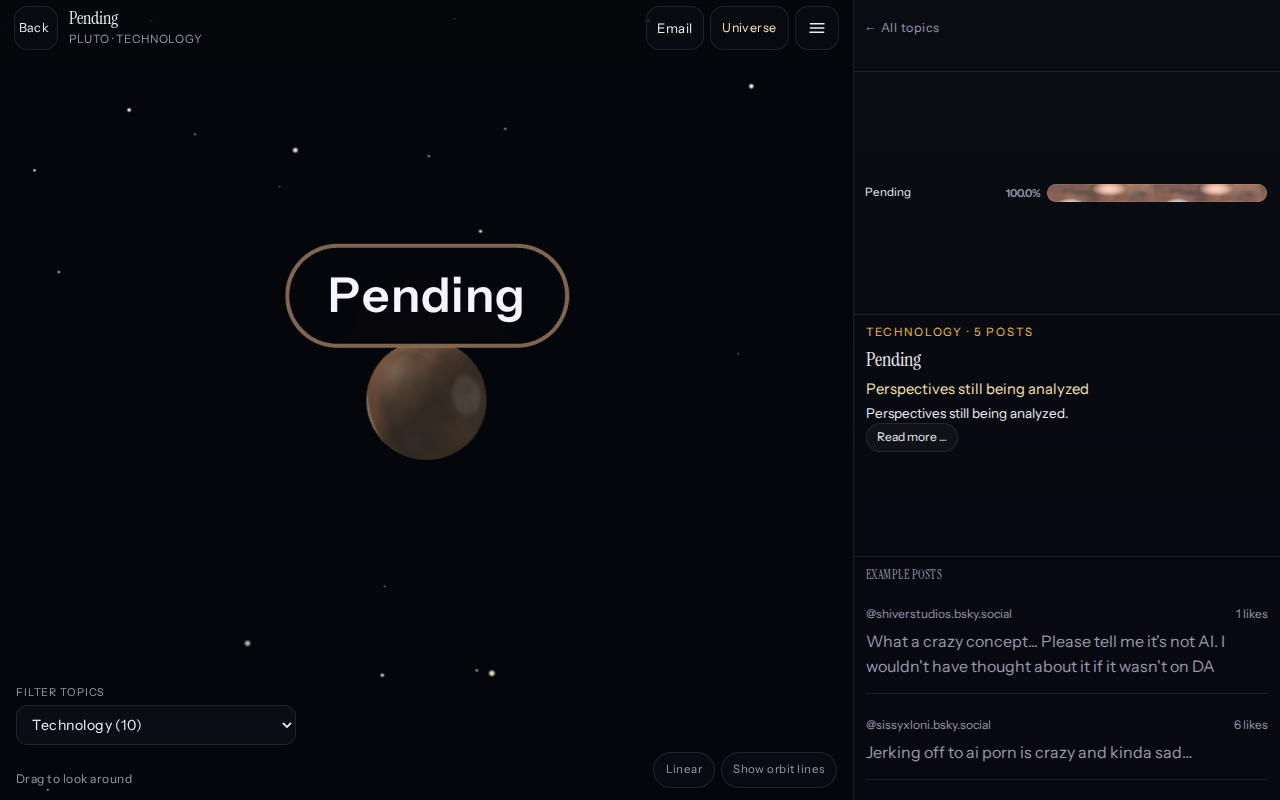
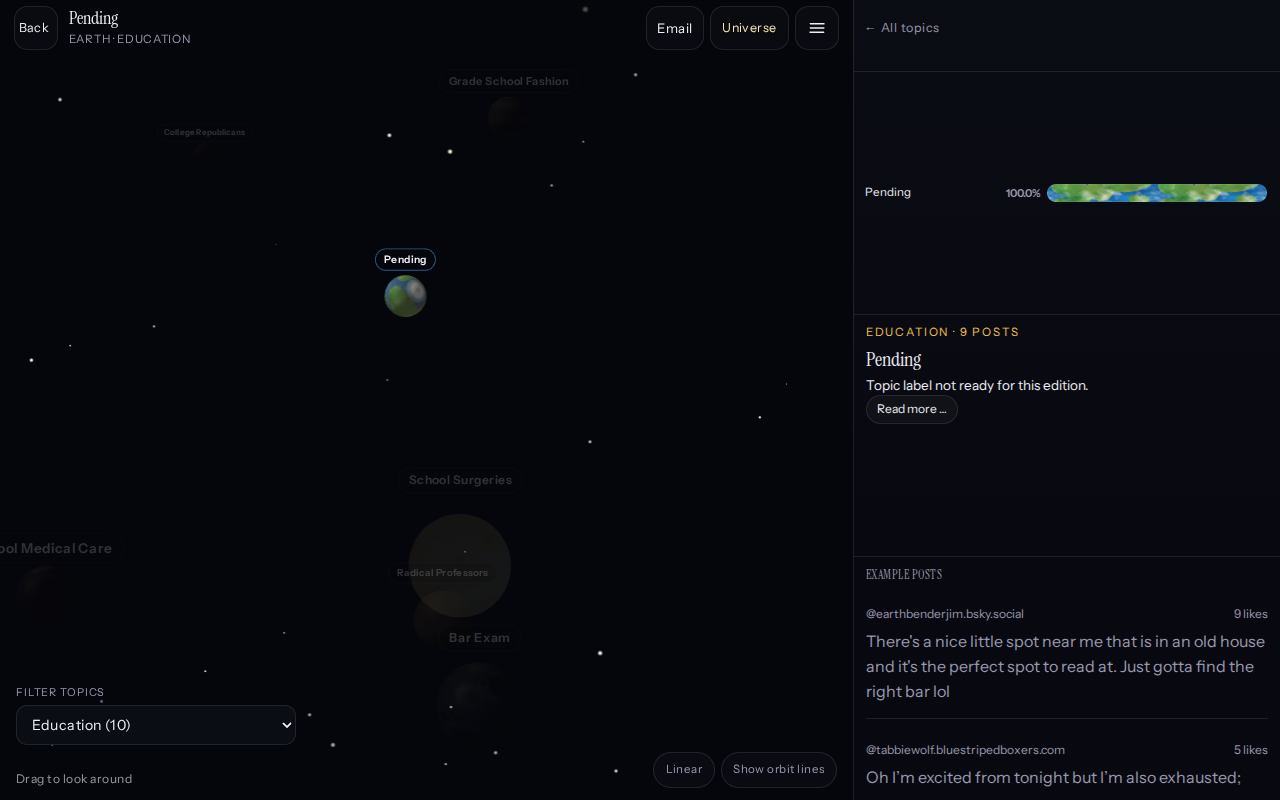
Label-held planets use not-ready copy, not stance analyzed
Michael (2026-10-20): held label-guard planets must not claim perspectives
are still being analyzed. Use stance_check label held, PENDING_SUMMARY
Topic label not ready for this edition, and hide the gold stance line on
the reading screen when only the summary carries that message.

Recapture PR 265 pending screenshots from the Oct 19 replay.

diff --git a/src/lib/present.js b/src/lib/present.js
@@ -1,7 +1,9 @@
 import {
+  LABEL_NOT_READY,
   PERSPECTIVES_PENDING,
   STANCE_CHECK_FAILED,
   STANCE_CHECK_INCOHERENT,
+  STANCE_CHECK_LABEL_HELD,
   STANCE_CHECK_UNSHARED,
 } from './copy.js'
 
@@ -281,13 +283,16 @@ function presentDigest(topics, previous) {
         : faces
             .map((face) => `${face.title} says ${clean(face.summary).replace(/\.$/, '')}.`)
             .join(' ')
+      const labelHeld = topic.stance_check === STANCE_CHECK_LABEL_HELD
       const pending =
         topic.stance_check === STANCE_CHECK_FAILED ||
         topic.stance_check === STANCE_CHECK_INCOHERENT ||
         topic.stance_check === STANCE_CHECK_UNSHARED
-      const opposingNote = pending
-        ? PERSPECTIVES_PENDING
-        : oneView
+      const opposingNote = labelHeld
+        ? LABEL_NOT_READY
+        : pending
+          ? PERSPECTIVES_PENDING
+          : oneView
           ? topic.opposing_note || 'No clear opposing view found in this sample'
           : null
       return {
@@ -296,7 +301,7 @@ function presentDigest(topics, previous) {
         percent: topic.total_volume_percent,
         arguments: argumentsList.slice(0, 6),
         oneView,
-        stancePending: pending,
+        stancePending: pending || labelHeld,
         opposingNote,
         disagreement,
       }

diff --git a/src/lib/copy.js b/src/lib/copy.js
@@ -2,7 +2,13 @@ export const SINGLE_VIEW_NOTE = 'No clear opposing view found in this sample'
 export const STANCE_CHECK_FAILED = 'stance check failed'
 export const STANCE_CHECK_INCOHERENT = 'second side not coherent'
 export const STANCE_CHECK_UNSHARED = 'no shared claim on any face'
+export const STANCE_CHECK_LABEL_HELD = 'label held'
 export const PERSPECTIVES_PENDING = 'Perspectives still being analyzed'
+export const LABEL_NOT_READY = 'Topic label not ready for this edition.'
+
+function labelHeld(topic) {
+  return Boolean(topic && topic.stance_check === STANCE_CHECK_LABEL_HELD)
+}
 
 function stancePending(topic) {
   return Boolean(
@@ -14,12 +20,14 @@ function stancePending(topic) {
 }
 
 export function oneViewNote(topic) {
+  if (labelHeld(topic)) return ''
   if (stancePending(topic)) return PERSPECTIVES_PENDING
   if (topic && topic.opposing_note) return topic.opposing_note
   return SINGLE_VIEW_NOTE
 }
 
 export function showStanceFailure(topic) {
+  if (labelHeld(topic)) return false
   return stancePending(topic)
 }
 

diff --git a/src/components/ReadingScreen.jsx b/src/components/ReadingScreen.jsx
@@ -267,11 +267,12 @@ export default function ReadingScreen({
               {postCount ? ` · ${formatNumber(postCount)} posts` : ''}
             </p>
             <h1>{title}</h1>
-            {topic && (topic.perspectives.length === 1 || showStanceFailure(topic)) && (
-              <p className="reading-opposing">
-                {oneViewNote(topic)}
-              </p>
-            )}
+            {(() => {
+              const opposing = topic ? oneViewNote(topic) : ''
+              return topic && (topic.perspectives.length === 1 || showStanceFailure(topic)) && opposing ? (
+                <p className="reading-opposing">{opposing}</p>
+              ) : null
+            })()}
             {brief && <p className="reading-brief">{brief}</p>}
             {topic && perspective && <TopTerms terms={faceTerms} />}
             <div className="reading-actions">

diff --git a/scripts/replay_oct19_label_guard.py b/scripts/replay_oct19_label_guard.py
@@ -1,0 +1,71 @@
+#!/usr/bin/env python3
+"""Apply label guard offline to the Oct 19 edition for UI replay (PR #265)."""
+
+from __future__ import annotations
+
+import copy
+import json
+import sys
+from pathlib import Path
+
+ROOT = Path(__file__).resolve().parents[1]
+if str(ROOT) not in sys.path:
+    sys.path.insert(0, str(ROOT))
+
+from pipeline.assemble import assemble_payload
+from pipeline.label_guard import guard_published_labels
+
+DEFAULT_SRC = Path("/home/ubuntu/.cursor/projects/workspace/uploads/data_2026-10-19_79cf.json")
+OUT = ROOT / "public" / "data.json"
+
+
+def _hydrate_posts(topic: dict, counter: list[int]) -> list[dict]:
+    posts: list[dict] = []
+    uris: list[str] = []
+    for face in topic.get("perspectives") or []:
+        for rep in face.get("representative_posts") or []:
+            text = str(rep.get("text") or rep.get("clean_text") or "").strip()
+            if not text:
+                continue
+            uri = f"at://replay/oct19/{counter[0]}"
+            counter[0] += 1
+            post = {
+                "uri": uri,
+                "text": text,
+                "clean_text": text,
+                "likes": int(rep.get("likes") or 0),
+            }
+            posts.append(post)
+            uris.append(uri)
+    topic["_member_uris"] = uris
+    for face in topic.get("perspectives") or []:
+        face["_face_member_uris"] = uris
+    return posts
+
+
+def main(src: Path = DEFAULT_SRC) -> None:
+    payload = json.loads(src.read_text(encoding="utf-8"))
+    counter = [0]
+    all_posts: list[dict] = []
+    sections: dict[str, list[dict]] = {}
+    for section, planets in (payload.get("sections") or {}).items():
+        topics = copy.deepcopy(planets)
+        for topic in topics:
+            all_posts.extend(_hydrate_posts(topic, counter))
+        for line in guard_published_labels(topics, all_posts):
+            print(line)
+        sections[section] = topics
+    out = assemble_payload(
+        payload.get("topics") or [],
+        mode=str(payload.get("mode") or "live"),
+        source=str(payload.get("source") or "bluesky"),
+        total_posts=int(payload.get("total_posts") or 0),
+        last_updated=payload.get("last_updated"),
+        sections=sections,
+    )
+    OUT.write_text(json.dumps(out, indent=2), encoding="utf-8")
+    print(f"Wrote {OUT}")
+
+
+if __name__ == "__main__":
+    main(Path(sys.argv[1]) if len(sys.argv) > 1 else DEFAULT_SRC)

diff --git a/pipeline/label_guard.py b/pipeline/label_guard.py
@@ -20,12 +20,11 @@ from pipeline.label import (
     topic_name_is_weak,
     unique_label,
 )
-from pipeline.schema import STANCE_CHECK_UNSHARED, TOP_TERMS_LIMIT
+from pipeline.schema import STANCE_CHECK_LABEL_HELD, TOP_TERMS_LIMIT
 from pipeline.spam_guard import post_body
 
-# Same line the reading screen shows for stance_check.
 PENDING_TITLE = "Pending"
-PENDING_SUMMARY = "Perspectives still being analyzed."
+PENDING_SUMMARY = "Topic label not ready for this edition."
 
 _TEMPLATE_GROUPED = re.compile(r"^posts grouped under (.+)\.\s*$", re.IGNORECASE)
 _TEMPLATE_ABOUT = re.compile(r"^these posts are about (.+)\.\s*$", re.IGNORECASE)
@@ -508,7 +507,7 @@ def _assign_name(topic: dict, new_name: str, used_names: set[str]) -> str:
 
 
 def _mark_pending(topic: dict) -> None:
-    topic["stance_check"] = STANCE_CHECK_UNSHARED
+    topic["stance_check"] = STANCE_CHECK_LABEL_HELD
     topic.pop("opposing_note", None)
     topic["summary"] = PENDING_SUMMARY
     topic.pop("brief", None)
@@ -603,7 +602,7 @@ def guard_published_labels(topics: list[dict], posts: list[dict]) -> list[str]:
                 log.append(f"Label guard: face {title!r} → {new_title!r} ({issue})")
                 _apply_label(face, "title", new_title, new_summary)
             else:
-                topic["stance_check"] = STANCE_CHECK_UNSHARED
+                topic["stance_check"] = STANCE_CHECK_LABEL_HELD
                 topic.pop("opposing_note", None)
                 shown = planet_name if planet_name.lower().startswith("pending") else PENDING_TITLE
                 _mark_face_pending(face, shown)

diff --git a/tests/test_label_guard.py b/tests/test_label_guard.py
@@ -18,7 +18,7 @@ from pipeline.label_guard import (
     readable_face_label,
     scan_edition_labels,
 )
-from pipeline.schema import STANCE_CHECK_UNSHARED
+from pipeline.schema import STANCE_CHECK_LABEL_HELD
 
 ROOT = Path(__file__).resolve().parents[1]
 
@@ -35,6 +35,11 @@ def _topic(name: str, summary: str, face_title: str, face_summary: str, posts: l
             }
         ],
     }
+
+
+def test_pending_summary_is_not_stance_analyzed_copy():
+    assert PENDING_SUMMARY == "Topic label not ready for this edition."
+    assert "analyzed" not in PENDING_SUMMARY.lower()
 
 
 def test_detects_template_preamble_and_insult_labels():
@@ -75,7 +80,7 @@ def test_guard_holds_insult_placeholder_pending():
     topic["perspectives"][0]["_face_member_uris"] = ["at://1", "at://2"]
     log = guard_published_labels([topic], posts)
     face = topic["perspectives"][0]
-    assert topic["stance_check"] == STANCE_CHECK_UNSHARED
+    assert topic["stance_check"] == STANCE_CHECK_LABEL_HELD
     assert topic["name"] == PENDING_TITLE
     assert topic["summary"] == PENDING_SUMMARY
     assert face["title"] == PENDING_TITLE

diff --git a/pipeline/schema.py b/pipeline/schema.py
@@ -60,8 +60,10 @@ STANCE_CHECK_FAILED = "stance check failed"
 STANCE_CHECK_INCOHERENT = "second side not coherent"
 # Every face failed the shared-claim check; planet is kept for readers as pending.
 STANCE_CHECK_UNSHARED = "no shared claim on any face"
+# Label guard could not ship readable copy; do not imply stance analysis is running.
+STANCE_CHECK_LABEL_HELD = "label held"
 _STANCE_CHECK_VALUES = frozenset(
-    {STANCE_CHECK_FAILED, STANCE_CHECK_INCOHERENT, STANCE_CHECK_UNSHARED}
+    {STANCE_CHECK_FAILED, STANCE_CHECK_INCOHERENT, STANCE_CHECK_UNSHARED, STANCE_CHECK_LABEL_HELD}
 )
 # Salient tokens stored on each published face (pipeline + demo).
 TOP_TERMS_LIMIT = 8
